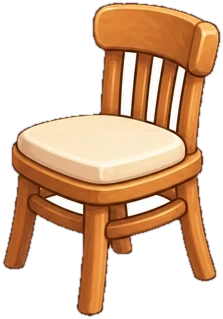
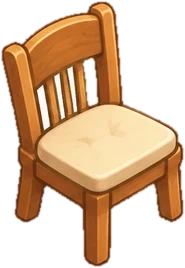
Cat cafe furniture: table, chairs, table rugs, runner
Claude-Session: https://claude.ai/code/session_012nmUwDLyP2qaqLbjtxBWJU

diff --git a/bakery-street-app/src/scene/interior-scene.js b/bakery-street-app/src/scene/interior-scene.js
@@ -143,7 +143,7 @@ export class InteriorScene {
 
     this.cachedRoom(ctx, x0 - 60, w + 120, yTop, yBot, this.shift('wall'));   // wall and floor, cached (a little wider than the screen for the sway)
     ctx.save(); ctx.translate(this.shift('deco'), 0); this.decor(ctx); ctx.restore();
-    this.shifted(ctx, 'floor', () => this.rug(ctx));
+    this.shifted(ctx, 'floor', () => { this.rug(ctx); this.tableRugs(ctx); });
     // Everything that stands on the floor is drawn back to front by the line it stands on (its base y), so people pass in front of
     // or behind counters and tables correctly. Ties keep the DRAW_ORDER of the furniture.
     const items = [];
@@ -233,7 +233,7 @@ export class InteriorScene {
     const pieces = [];
     for (const [key, cx] of [['chair-left', 165], ['chair-right', 835]]) {
       const img = getImage(`int-${key}`), t = tw[key === 'chair-left' ? 0 : 1];
-      const guest = (key === 'chair-left') === (side === -1), cw = img.naturalWidth * f * 0.78, ch = img.naturalHeight * f * 0.78;       // chairs are drawn a bit smaller than the table's scale (the picture drew them large)
+      const guest = (key === 'chair-left') === (side === -1), cw = img.naturalWidth * f * 0.62, ch = img.naturalHeight * f * 0.62;       // a chair is about half as wide as the table (the pictures were drawn at one scale)
       const px = dx + cx * s + t.dx * 1.6 + (guest ? slide * (key === 'chair-left' ? -1 : 1) : 0);
       pieces.push({ key, img, x: px - cw / 2, y: base - ch + t.dy, w: cw, h: ch, rot: t.rot, pivot: px });
     }
@@ -389,7 +389,19 @@ export class InteriorScene {
   }
 
   /** A woven rug lying flat on the floor in front of the counter: a perspective trapezoid with a border, stripes and fringe. */
+  /** A green rug under every open table. */
+  tableRugs(ctx) {
+    const img = getImage('int-rug-green'); if (!img) return;
+    for (const a of AREAS) {
+      if (!a.id.startsWith('table') || !this.tableOpen(a)) continue;
+      const rw = a.w * 0.58 * 1.7, rh = rw * img.naturalHeight / img.naturalWidth, base = a.y + a.h, d = this.warpAt(depthOf(a));
+      ctx.drawImage(img, a.x + a.w / 2 - rw / 2, base - rh * 0.78 + d, rw, rh);
+    }
+  }
+
   rug(ctx) {
+    const runner = getImage('int-rug-runner');
+    if (runner) { const rw = 540, rh = rw * runner.naturalHeight / runner.naturalWidth; ctx.drawImage(runner, 450 - rw / 2, 800 - rh / 2, rw, rh); return; }
     const cx = 450, y0 = 748, y1 = 858, w0 = 520, w1 = 640;
     const quad = (k) => { const a0 = w0 / 2 - k, a1 = w1 / 2 - k * 1.1, ya = y0 + k * 0.35, yb = y1 - k * 0.35; poly(ctx, [[cx - a0, ya], [cx + a0, ya], [cx + a1, yb], [cx - a1, yb]]); };
     ctx.save();

diff --git a/bakery-street-app/src/assets.js b/bakery-street-app/src/assets.js
@@ -33,7 +33,7 @@ for (const name of PROPS) MANIFEST[`prop-${name}`] = `assets/props/${name}.webp`
 // its own drawing. Names that are not listed are never requested (no 404 noise). Possible names: wall, floor, oven, counter, showcase,
 // coffee, storage, upgrades, table, chair (see assets/interior/README.md).
 export const INTERIOR_ART = ['oven', 'counter', 'showcase', 'coffee', 'storage', 'upgrades', 'table', 'wall', 'floor',
-  'window-arch', 'window-shutter', 'shelf', 'door', 'rack', 'beam', 'chair-left', 'chair-right', 'room', 'lamp'];   // the last six are wall decoration (see InteriorScene.decor)
+  'window-arch', 'window-shutter', 'shelf', 'door', 'rack', 'beam', 'chair-left', 'chair-right', 'room', 'lamp', 'rug-green', 'rug-runner'];   // the last six are wall decoration (see InteriorScene.decor)
 for (const name of INTERIOR_ART) MANIFEST[`int-${name}`] = `assets/interior/${name}.webp`;
 
 // Item icons (assets/icons/<id>.webp, 256 px): products and ingredients, keyed 'icon-<id>'. The emoji in data/economy.js stay as the text

diff --git a/bakery-street-app/README.md b/bakery-street-app/README.md
@@ -185,3 +185,6 @@ Oyun artık yalnızca dikey çalışır (`app.json: orientation: portrait`, `Scr
 
 ### Kedi kafe odası
 `assets/game/interior/room.webp` artık 1024×1536 dikey "kedi kafe" boş odası (referans görsele göre); duvar/zemin birleşimi y=452'de, dünyada `FLOOR_Y = 470`. Odanın kendi lambaları, rafları, tebeşir tahtası, penceresi ve kapısı var; eski duvar süsleri (raf, pencere, tencere askısı, lambalar) ve ön plan saksıları çizilmiyor. Yükseltme tabelası (690, 282) konumuna alındı. Sıradaki: referanstaki açıya (yukarıdan ~45°) uygun ekipman, masa, kedi karakter ve arayüz resimleri.
+
+### Kedi kafe salon eşyaları
+`table.webp` (vazolu masa), `table-plain.webp`, `chair-left/right.webp`, `rug-green.webp` (her masanın altında), `rug-runner.webp` (servis alanı halısı) yeni resimlerle değişti. Bitkiler (`plant-1..3`), raflı bitki (`shelf-plants`) ve paspas (`mat-paw`) kaydedildi, henüz yerleştirilmedi. Sandalye genişliği masa genişliğinin yarısı. Oturan misafir resimleri (`seat-*`) Komut 5 gelene kadar eski stilde.
